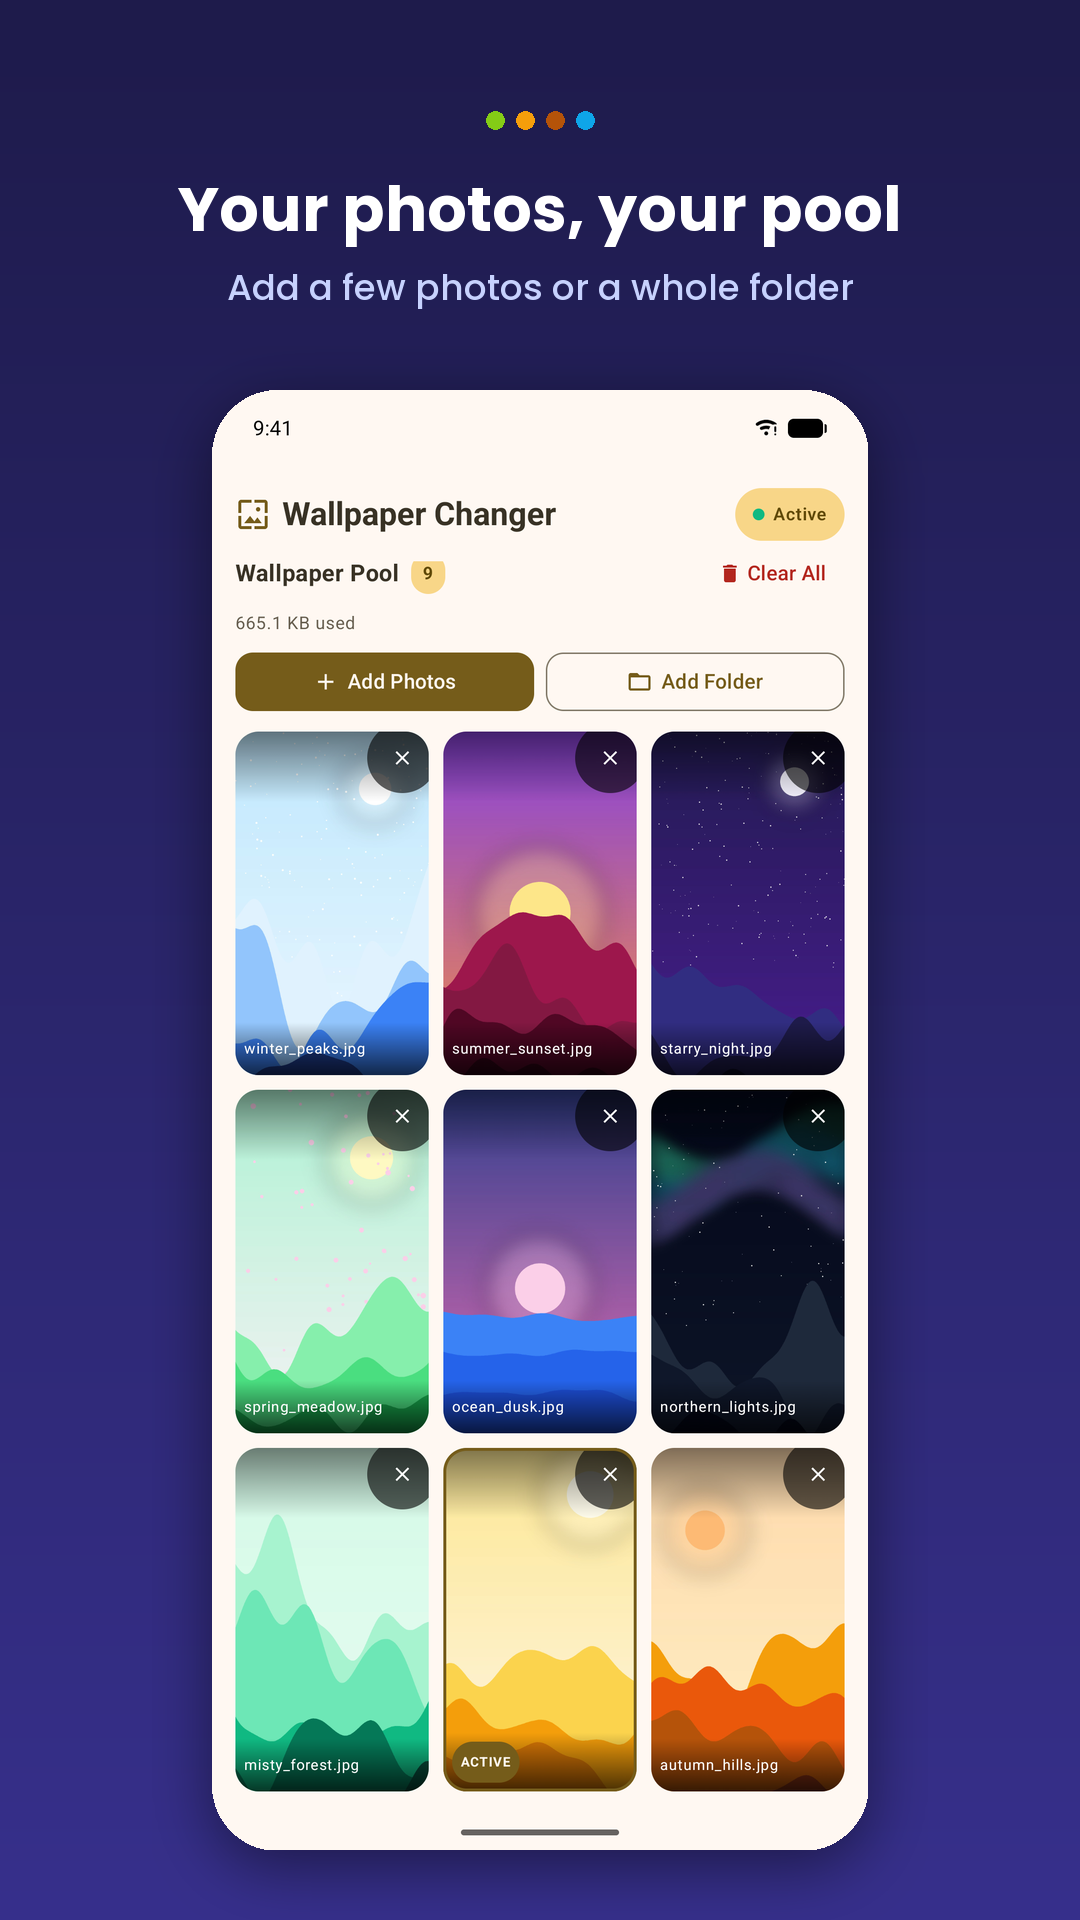
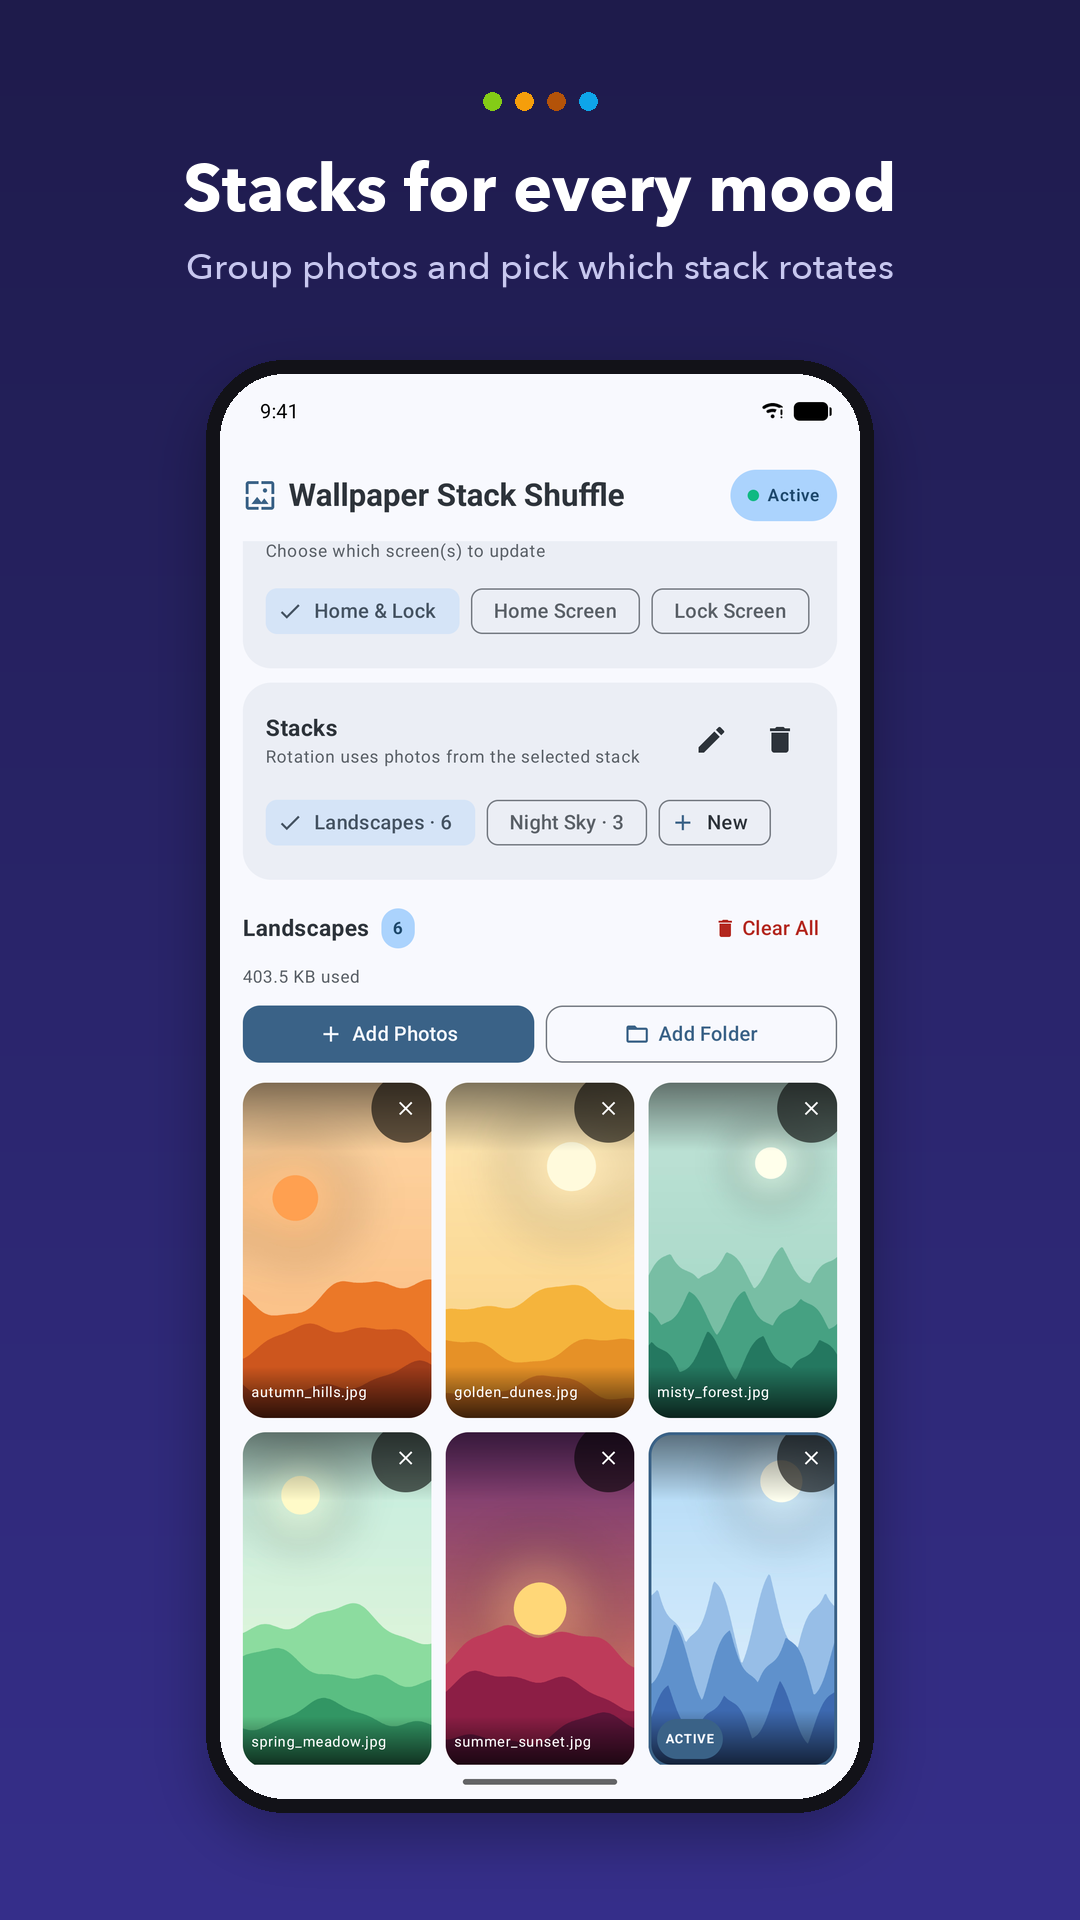
feat: rename to Wallpaper Stack Shuffle, package me.gcg.wpchanger
- applicationId me.gcg.wpchanger (namespace stays com.gcg.wpchanger)
- app_name, top bar title, store title/description, privacy policy, docs
- regenerate feature graphic and the 5 Play screenshots (now incl. stacks)

diff --git a/app/src/main/java/com/gcg/wpchanger/ui/HomeScreen.kt b/app/src/main/java/com/gcg/wpchanger/ui/HomeScreen.kt
@@ -91,6 +91,7 @@ import androidx.compose.ui.graphics.Color
 import androidx.compose.ui.graphics.vector.ImageVector
 import androidx.compose.ui.layout.ContentScale
 import androidx.compose.ui.platform.LocalContext
+import androidx.compose.ui.res.stringResource
 import androidx.compose.ui.text.font.FontWeight
 import androidx.compose.ui.text.style.TextAlign
 import androidx.compose.ui.text.style.TextOverflow
@@ -104,6 +105,7 @@ import androidx.lifecycle.compose.LocalLifecycleOwner
 import androidx.lifecycle.compose.collectAsStateWithLifecycle
 import coil.compose.AsyncImage
 import coil.request.ImageRequest
+import com.gcg.wpchanger.R
 import com.gcg.wpchanger.data.StackNames
 import com.gcg.wpchanger.data.TimerInterval
 import com.gcg.wpchanger.data.WallpaperItem
@@ -190,7 +192,7 @@ fun HomeScreen(
                             tint = MaterialTheme.colorScheme.primary,
                         )
                         Text(
-                            text = "Wallpaper Changer",
+                            text = stringResource(R.string.app_name),
                             fontWeight = FontWeight.Bold,
                         )
                     }

diff --git a/docs/PLAY_STORE.md b/docs/PLAY_STORE.md
@@ -17,9 +17,9 @@ Everything that can live in the repo is done. What's left needs your accounts, k
 ## 📝 Your checklist
 
 ### 0. Quick decisions
-- [ ] **Set GitHub's default branch to `main`.** It's currently `feature/claude`, so the repo page shows an old README. Go to Settings → General → Default branch.
-- [ ] **App name.** "Wallpaper Changer" is fine for Play but very generic, with many apps of the same name. Rename now if you want something distinctive (`app_name` in `strings.xml` + `title.txt`, max 30 chars).
-- [ ] **Package name `com.gcg.wpchanger` is permanent** once uploaded. Keep it unless you object now.
+- [x] **GitHub default branch is `main`.**
+- [x] **App name: Wallpaper Stack Shuffle** (`app_name` in `strings.xml` + `title.txt`, max 30 chars).
+- [x] **Package name: `me.gcg.wpchanger`** (`applicationId`; the code namespace stays `com.gcg.wpchanger`). Permanent once uploaded.
 - [ ] *(Optional)* Add a `LICENSE`. Without one, the code is "all rights reserved".
 
 ### 1. Developer account (~1–3 days)

diff --git a/PRIVACY.md b/PRIVACY.md
@@ -1,8 +1,8 @@
-# Privacy Policy — Wallpaper Changer
+# Privacy Policy — Wallpaper Stack Shuffle
 
-_Last updated: October 3, 2026_
+_Last updated: October 15, 2026_
 
-Wallpaper Changer ("the app") is developed by Guney Can Gokoglu. This policy explains what the app does with your data. The short version: **nothing leaves your device.**
+Wallpaper Stack Shuffle ("the app") is developed by Guney Can Gokoglu. This policy explains what the app does with your data. The short version: **nothing leaves your device.**
 
 ## Data the app accesses
 

diff --git a/AGENTS.md b/AGENTS.md
@@ -1,6 +1,6 @@
 # Guidelines for AI Agents & Developers
 
-This document defines the quality standards, architectural conventions, and mandatory workflows for developing and maintaining the **Wallpaper Changer** codebase.
+This document defines the quality standards, architectural conventions, and mandatory workflows for developing and maintaining the **Wallpaper Stack Shuffle** codebase.
 
 ---
 

diff --git a/README.md b/README.md
@@ -1,5 +1,5 @@
 <p align="center">
-  <img src="fastlane/metadata/android/en-US/images/featureGraphic.png" alt="Wallpaper Changer" width="720">
+  <img src="fastlane/metadata/android/en-US/images/featureGraphic.png" alt="Wallpaper Stack Shuffle" width="720">
 </p>
 
 <p align="center">
